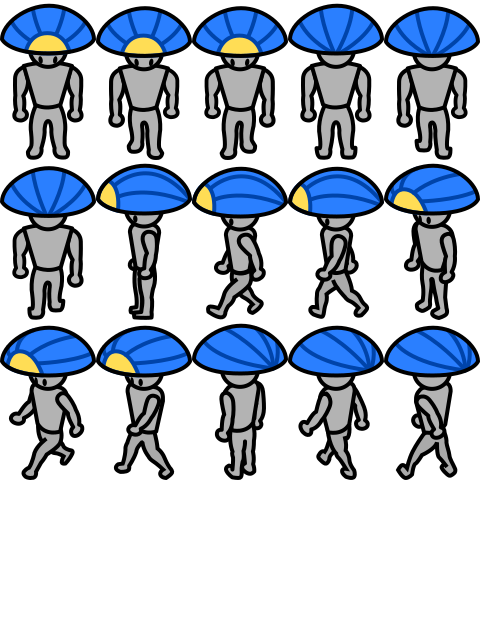
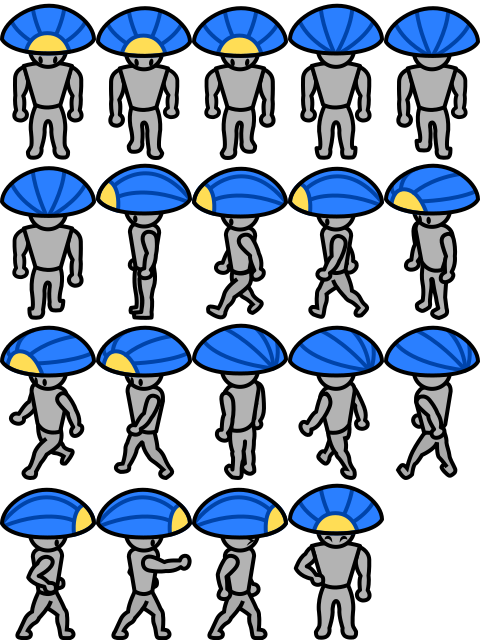
Remaining Cogmura sprites; fix stat change effect.

Changed region(s): [[0.0, 0.75, 0.8125, 1.0]]

diff --git a/src/effect.rb b/src/effect.rb
@@ -103,8 +103,8 @@ class StatChangeEffect < ScreenEffect
              when :hp
                delta < 0 ? 0xff0000 : 0xff9999
              end
-    @x = x + Game.font.text_width(@text) - @icon.width - 2
-    @y = y - Game.font.height * 2 - 10
+    @x = x + Game.font.text_width(@text) * 0.5 - @icon.width - 2
+    @y = y - Game.font.height * 0.5 - 10
   end
 
   def draw

diff --git a/src/constants.rb b/src/constants.rb
@@ -18,5 +18,5 @@ module Physics
 end
 
 ENEMY_TYPE_MAP = [
-  [:bruk, 20, -16, -8, 1, 5, 2]
+  [:bruk, 20, -26, -36, 1, 5, 2]
 ].freeze
